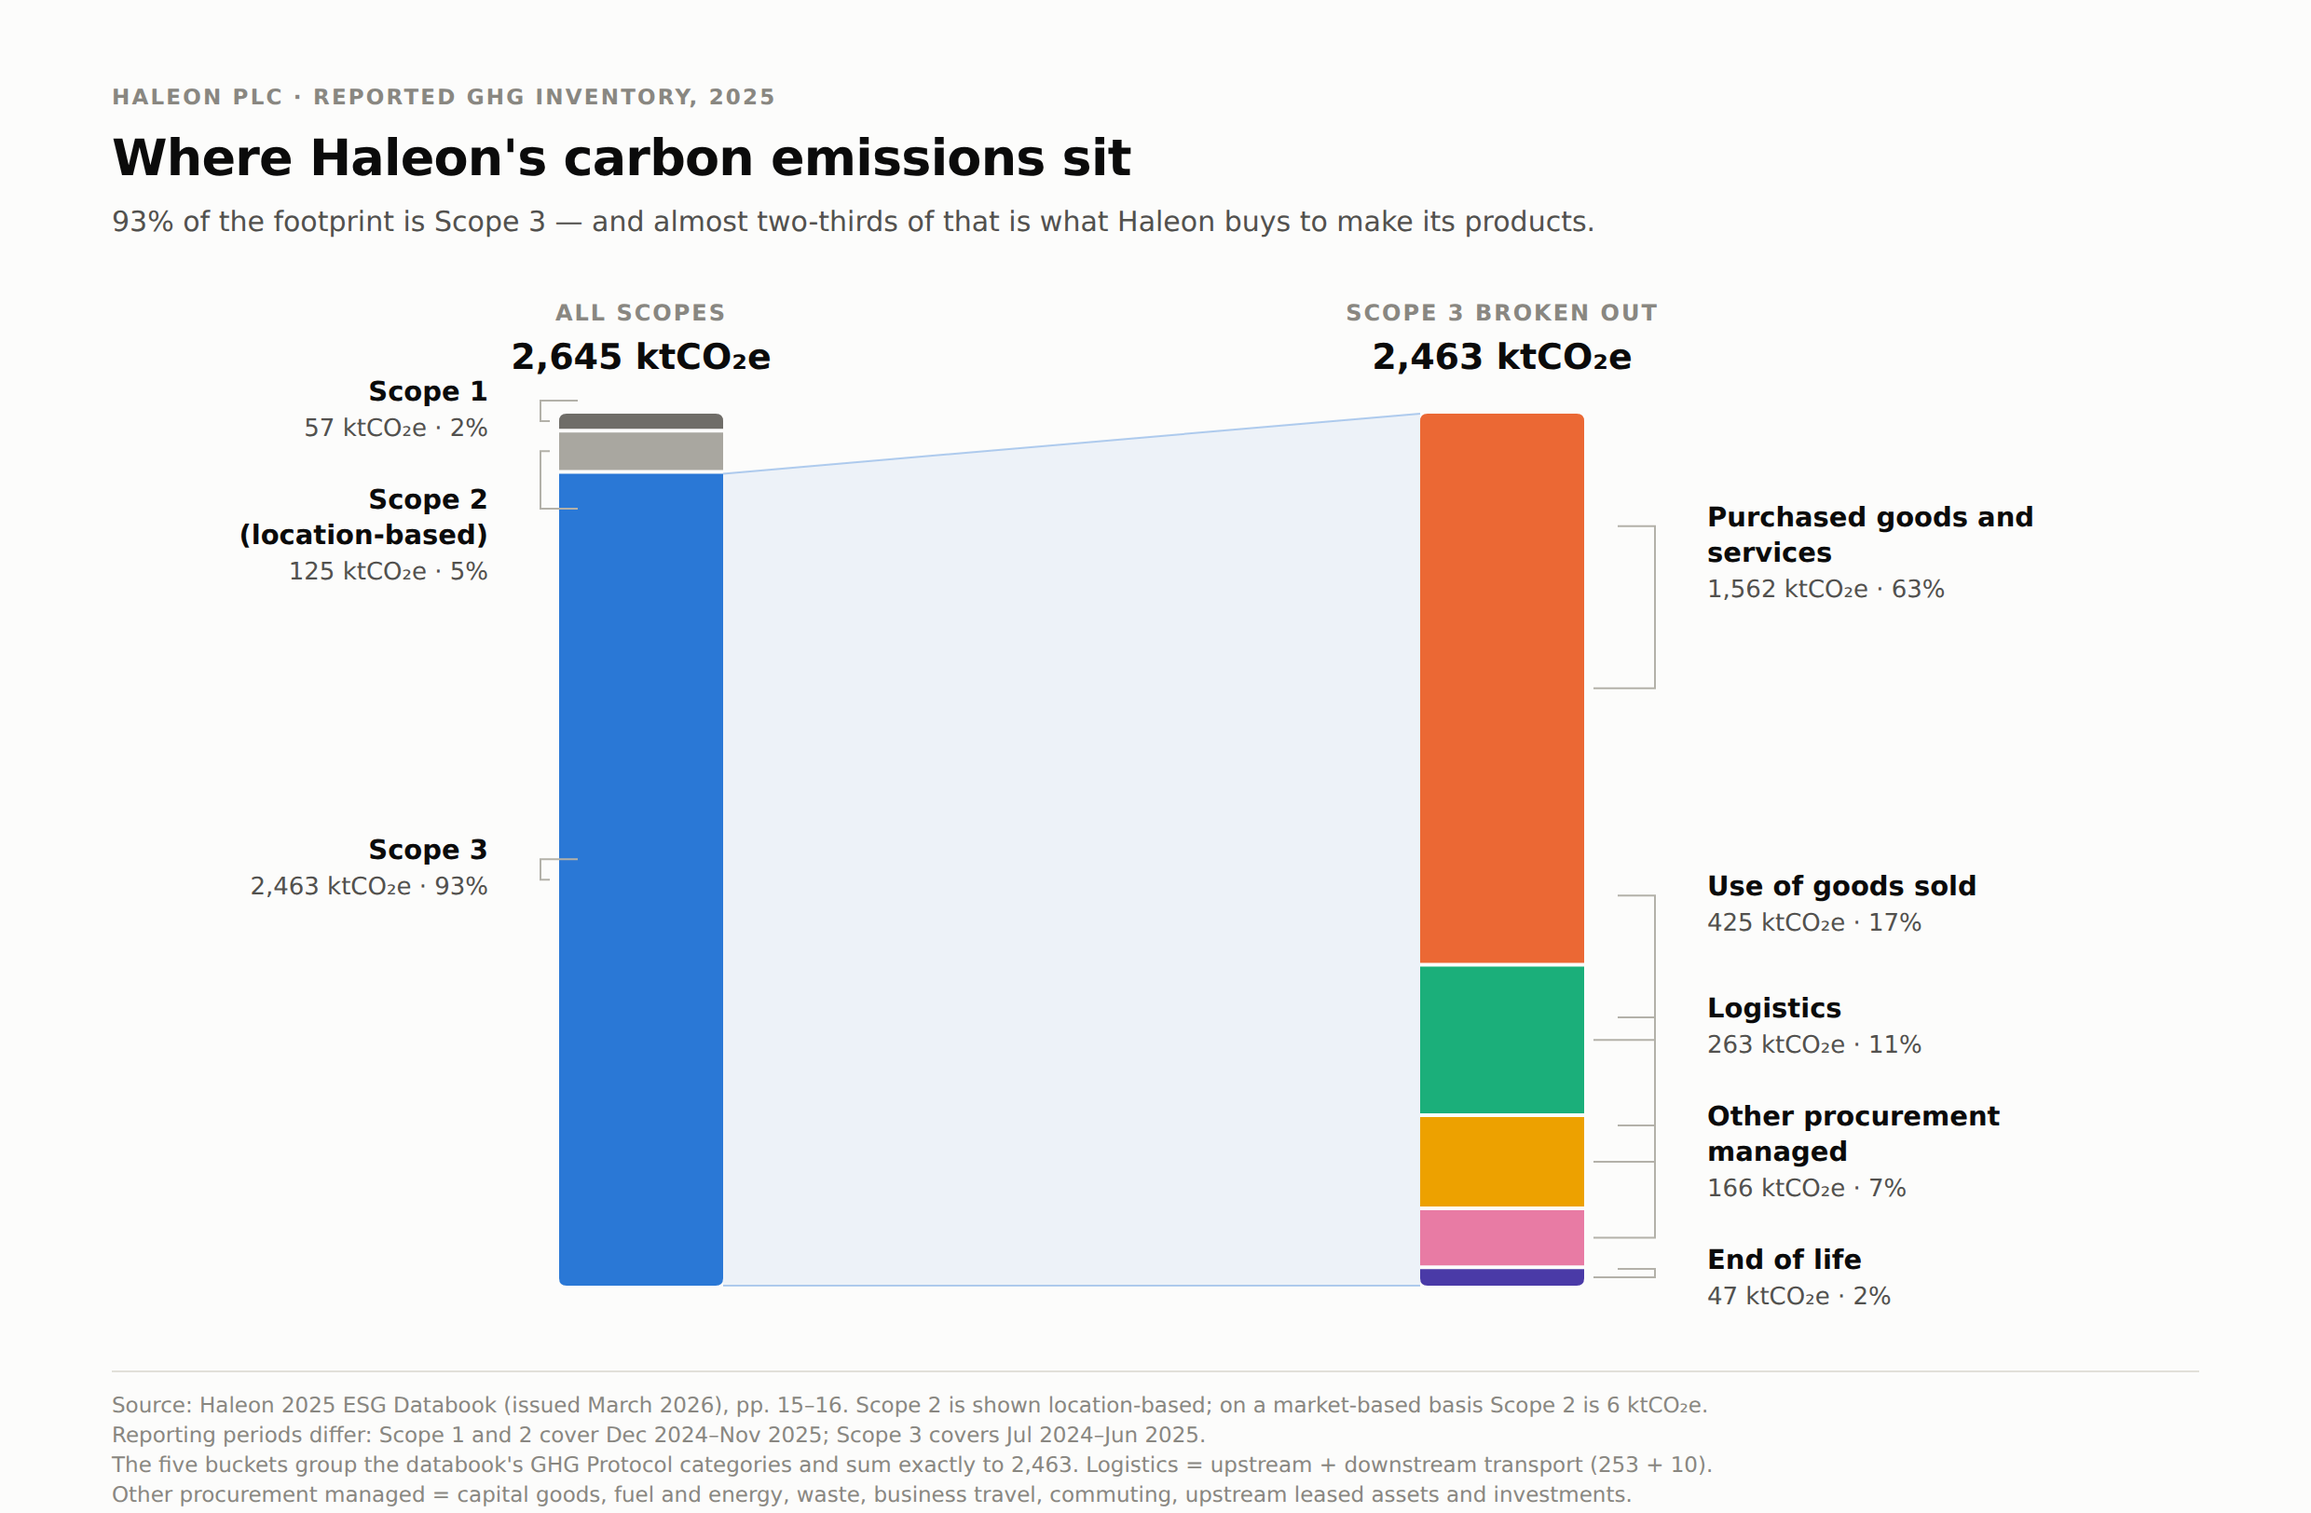
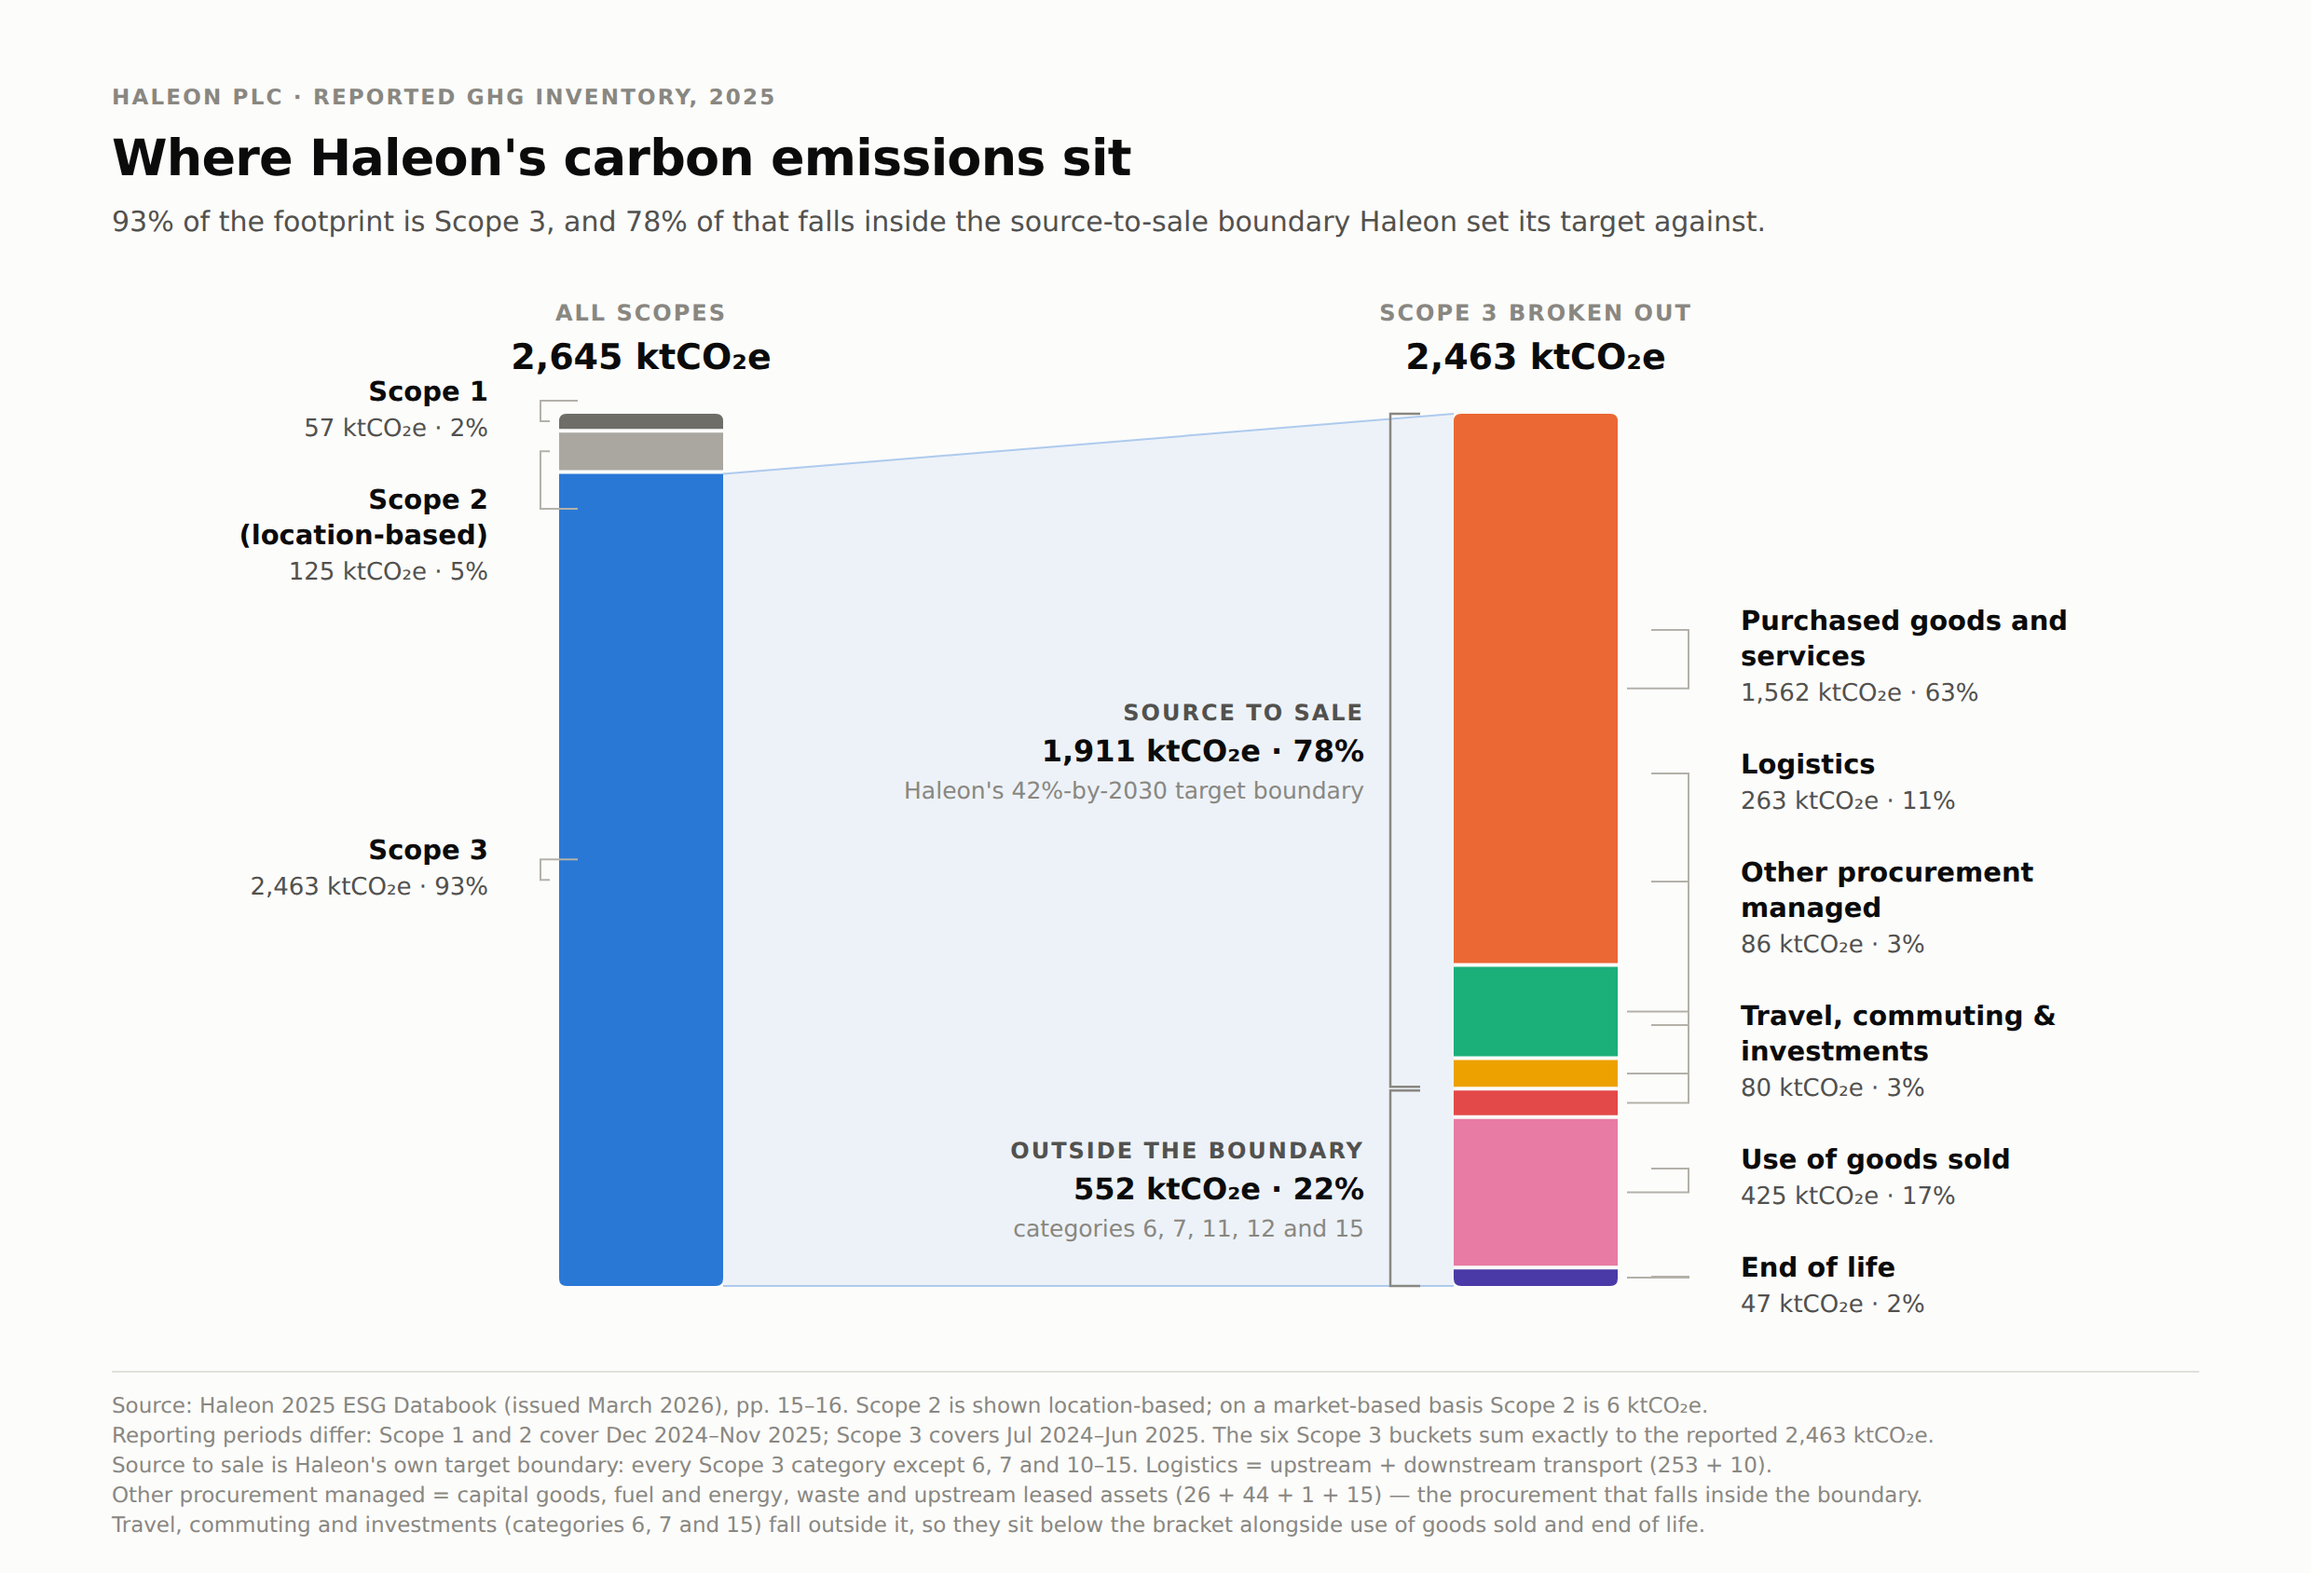
Reorder Scope 3 stack around the source-to-sale boundary
Groups the procurement-managed categories at the top of the Scope 3 stack
with use of goods sold and end of life moved to the bottom, and brackets
the two groups.

Splits the former 'other procurement managed' bucket: business travel,
employee commuting and investments (categories 6, 7 and 15) are excluded
from Haleon's source-to-sale target boundary, so they move below the
bracket. This makes the bracketed source-to-sale total exactly 1,911
ktCO2e rather than overstating it at 1,991.

Also fixes the label solver, which shifted every label when only the
bottom cluster was crowded.

Claude-Session: https://claude.ai/code/session_012VwSzwHEPUnvucC6LS63P4

diff --git a/charts/build-emissions-chart.html b/charts/build-emissions-chart.html
@@ -6,29 +6,32 @@
   html, body { margin: 0; padding: 0; background: #eceae4; }
   #card {
     width: 1240px;
-    height: 812px;
+    height: 844px;
     background: #fcfcfb;
     font-family: system-ui, -apple-system, "Segoe UI", "DejaVu Sans", sans-serif;
   }
   svg { display: block; }
-  .t-title   { font-size: 27px; font-weight: 640; fill: #0b0b0b; letter-spacing: -0.4px; }
-  .t-sub     { font-size: 15px; fill: #52514e; }
-  .t-eyebrow { font-size: 11.5px; font-weight: 600; fill: #898781; letter-spacing: 1.1px; }
-  .t-colhead { font-size: 12px; font-weight: 600; fill: #898781; letter-spacing: 1px; }
-  .t-coltot  { font-size: 19px; font-weight: 640; fill: #0b0b0b; }
-  .t-name    { font-size: 14.5px; font-weight: 600; fill: #0b0b0b; }
-  .t-val     { font-size: 13px; fill: #52514e; font-variant-numeric: tabular-nums; }
-  .t-foot    { font-size: 11.5px; fill: #898781; }
+  .t-title    { font-size: 27px; font-weight: 640; fill: #0b0b0b; letter-spacing: -0.4px; }
+  .t-sub      { font-size: 15px; fill: #52514e; }
+  .t-eyebrow  { font-size: 11.5px; font-weight: 600; fill: #898781; letter-spacing: 1.1px; }
+  .t-colhead  { font-size: 12px; font-weight: 600; fill: #898781; letter-spacing: 1px; }
+  .t-coltot   { font-size: 19px; font-weight: 640; fill: #0b0b0b; }
+  .t-name     { font-size: 14.5px; font-weight: 600; fill: #0b0b0b; }
+  .t-val      { font-size: 13px; fill: #52514e; font-variant-numeric: tabular-nums; }
+  .t-grouplab { font-size: 12px; font-weight: 600; fill: #52514e; letter-spacing: 1px; }
+  .t-groupval { font-size: 16px; font-weight: 640; fill: #0b0b0b; font-variant-numeric: tabular-nums; }
+  .t-groupsub { font-size: 12.5px; fill: #898781; }
+  .t-foot     { font-size: 11.5px; fill: #898781; }
 </style>
 </head>
 <body>
-<div id="card"><svg id="svg" width="1240" height="812" viewBox="0 0 1240 812"></svg></div>
+<div id="card"><svg id="svg" width="1240" height="844" viewBox="0 0 1240 844"></svg></div>
 
 <script>
 const LEADER = "#b3b1a9";
 const PLOT_TOP = 222, PLOT_BOT = 690;
 const H = PLOT_BOT - PLOT_TOP;
-const LEFT_X = 300, RIGHT_X = 762, BAR_W = 88;
+const LEFT_X = 300, RIGHT_X = 780, BAR_W = 88;
 const GAP = 2;
 const LINE_H = 19, VAL_H = 19, BLOCK_PAD = 10, MIN_SEP = 10;
 
@@ -39,12 +42,21 @@ const left = [
   { name: "Scope 2 (location-based)", value: 125,  color: "#a9a7a0" },
   { name: "Scope 3",                  value: 2463, color: "#2a78d6" }
 ];
+
+// Scope 3, ordered so the source-to-sale categories sit together at the top
 const right = [
-  { name: "Purchased goods and services", value: 1562, color: "#eb6834" },
-  { name: "Use of goods sold",            value: 425,  color: "#1baf7a" },
-  { name: "Logistics",                    value: 263,  color: "#eda100" },
-  { name: "Other procurement managed",    value: 166,  color: "#e87ba4" },
-  { name: "End of life",                  value: 47,   color: "#4a3aa7" }
+  { name: "Purchased goods and services",    value: 1562, color: "#eb6834" },
+  { name: "Logistics",                       value: 263,  color: "#1baf7a" },
+  { name: "Other procurement managed",       value: 86,   color: "#eda100" },
+  { name: "Travel, commuting & investments", value: 80,   color: "#e34948" },
+  { name: "Use of goods sold",               value: 425,  color: "#e87ba4" },
+  { name: "End of life",                     value: 47,   color: "#4a3aa7" }
+];
+
+// group brackets: [first index, last index, eyebrow, value line, note]
+const groups = [
+  [0, 2, "SOURCE TO SALE", "1,911 ktCO₂e · 78%", "Haleon's 42%-by-2030 target boundary"],
+  [3, 5, "OUTSIDE THE BOUNDARY", "552 ktCO₂e · 22%", "categories 6, 7, 11, 12 and 15"]
 ];
 
 const svg = document.getElementById("svg");
@@ -94,7 +106,7 @@ const leftSegs = layout(left, scopeTotal, LEFT_X);
 const rightSegs = layout(right, s3Total, RIGHT_X);
 const s3 = leftSegs[2];
 
-// connector wedge: Scope 3 segment -> the right-hand stack
+// connector wedge: the Scope 3 segment opened out into the right-hand stack
 el("path", {
   d: `M${LEFT_X + BAR_W},${s3.y} L${RIGHT_X},${PLOT_TOP} L${RIGHT_X},${PLOT_BOT} L${LEFT_X + BAR_W},${s3.y + s3.h} Z`,
   fill: "#2a78d6", "fill-opacity": "0.07"
@@ -107,26 +119,45 @@ el("path", {
   el("path", { d: roundedPath(s.x, s.y, BAR_W, s.h, s.first ? 4 : 0, s.last ? 4 : 0), fill: s.color });
 });
 
+// group brackets, set in the empty wedge space to the left of the Scope 3 stack
+const BX = RIGHT_X - 34, TICK = 16;
+groups.forEach(([i0, i1, eyebrow, valueLine, note]) => {
+  const top = rightSegs[i0].y;
+  const bot = rightSegs[i1].y + rightSegs[i1].h;
+  el("path", {
+    d: `M${BX + TICK},${top} L${BX},${top} L${BX},${bot} L${BX + TICK},${bot}`,
+    fill: "none", stroke: "#898781", "stroke-width": 1.25
+  });
+  const cy = (top + bot) / 2;
+  el("text", { x: BX - 14, y: cy - 16, "text-anchor": "end", class: "t-grouplab" }, eyebrow);
+  el("text", { x: BX - 14, y: cy + 6,  "text-anchor": "end", class: "t-groupval" }, valueLine);
+  el("text", { x: BX - 14, y: cy + 26, "text-anchor": "end", class: "t-groupsub" }, note);
+});
+
 function placeLabels(segs, side, total, maxChars) {
   const blocks = segs.map(s => {
     const lines = wrapName(s.name, maxChars);
     return { seg: s, lines, h: lines.length * LINE_H + VAL_H + BLOCK_PAD };
   });
 
-  // start centred on the segment, then resolve overlaps downward and clamp
+  // Start each block centred on its segment, then relieve crowding locally:
+  // push down through overlaps, clamp the last block to the plot, then push
+  // up only those blocks the clamp actually collides with.
+  const TOP_LIMIT = PLOT_TOP - 30, BOTTOM_LIMIT = PLOT_BOT + 30;
+  const n = blocks.length;
+
   blocks.forEach(b => { b.y = b.seg.mid - b.h / 2; });
-  for (let i = 1; i < blocks.length; i++) {
+  if (blocks[0].y < TOP_LIMIT) blocks[0].y = TOP_LIMIT;
+  for (let i = 1; i < n; i++) {
     const minY = blocks[i - 1].y + blocks[i - 1].h + MIN_SEP;
     if (blocks[i].y < minY) blocks[i].y = minY;
   }
-  const last = blocks[blocks.length - 1];
-  const overflow = last.y + last.h - (PLOT_BOT + 26);
-  if (overflow > 0) {
-    blocks.forEach(b => { b.y -= overflow; });
-    for (let i = blocks.length - 2; i >= 0; i--) {
-      const maxY = blocks[i + 1].y - blocks[i].h - MIN_SEP;
-      if (blocks[i].y > maxY) blocks[i].y = maxY;
-    }
+
+  const last = blocks[n - 1];
+  if (last.y + last.h > BOTTOM_LIMIT) last.y = BOTTOM_LIMIT - last.h;
+  for (let i = n - 2; i >= 0; i--) {
+    const maxY = blocks[i + 1].y - blocks[i].h - MIN_SEP;
+    if (blocks[i].y > maxY) blocks[i].y = maxY;
   }
 
   blocks.forEach(b => {
@@ -159,7 +190,7 @@ placeLabels(rightSegs, "right", s3Total, 21);
 el("text", { x: 60, y: 56, class: "t-eyebrow" }, "HALEON PLC · REPORTED GHG INVENTORY, 2025");
 el("text", { x: 60, y: 94, class: "t-title" }, "Where Haleon's carbon emissions sit");
 el("text", { x: 60, y: 124, class: "t-sub" },
-   "93% of the footprint is Scope 3 — and almost two-thirds of that is what Haleon buys to make its products.");
+   "93% of the footprint is Scope 3, and 78% of that falls inside the source-to-sale boundary Haleon set its target against.");
 
 el("text", { x: LEFT_X + BAR_W / 2, y: PLOT_TOP - 50, "text-anchor": "middle", class: "t-colhead" }, "ALL SCOPES");
 el("text", { x: LEFT_X + BAR_W / 2, y: PLOT_TOP - 24, "text-anchor": "middle", class: "t-coltot" }, "2,645 ktCO₂e");
@@ -169,9 +200,10 @@ el("text", { x: RIGHT_X + BAR_W / 2, y: PLOT_TOP - 24, "text-anchor": "middle", 
 el("line", { x1: 60, y1: 736, x2: 1180, y2: 736, stroke: "#e1e0d9", "stroke-width": 1 });
 [
   "Source: Haleon 2025 ESG Databook (issued March 2026), pp. 15–16. Scope 2 is shown location-based; on a market-based basis Scope 2 is 6 ktCO₂e.",
-  "Reporting periods differ: Scope 1 and 2 cover Dec 2024–Nov 2025; Scope 3 covers Jul 2024–Jun 2025.",
-  "The five buckets group the databook's GHG Protocol categories and sum exactly to 2,463. Logistics = upstream + downstream transport (253 + 10).",
-  "Other procurement managed = capital goods, fuel and energy, waste, business travel, commuting, upstream leased assets and investments."
+  "Reporting periods differ: Scope 1 and 2 cover Dec 2024–Nov 2025; Scope 3 covers Jul 2024–Jun 2025. The six Scope 3 buckets sum exactly to the reported 2,463 ktCO₂e.",
+  "Source to sale is Haleon's own target boundary: every Scope 3 category except 6, 7 and 10–15. Logistics = upstream + downstream transport (253 + 10).",
+  "Other procurement managed = capital goods, fuel and energy, waste and upstream leased assets (26 + 44 + 1 + 15) — the procurement that falls inside the boundary.",
+  "Travel, commuting and investments (categories 6, 7 and 15) fall outside it, so they sit below the bracket alongside use of goods sold and end of life."
 ].forEach((line, i) => el("text", { x: 60, y: 758 + i * 16, class: "t-foot" }, line));
 </script>
 </body>
